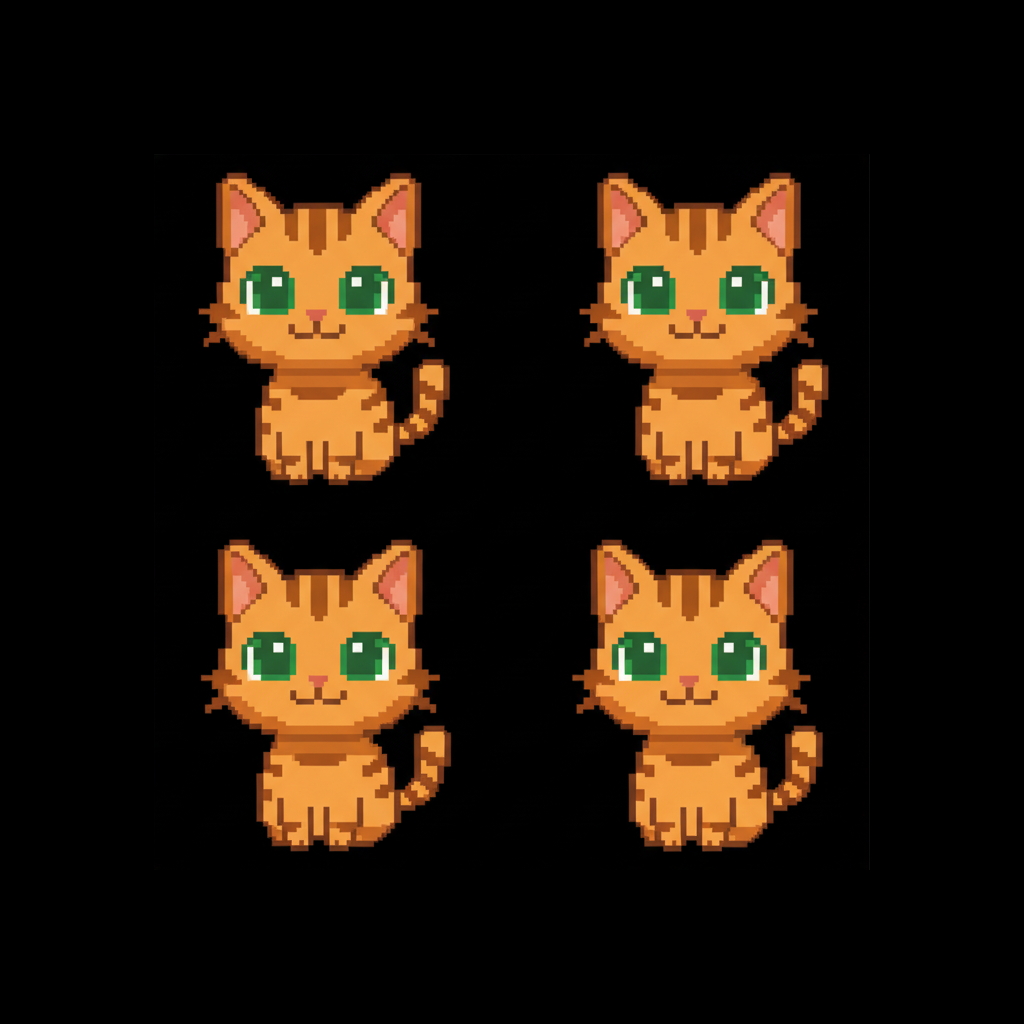
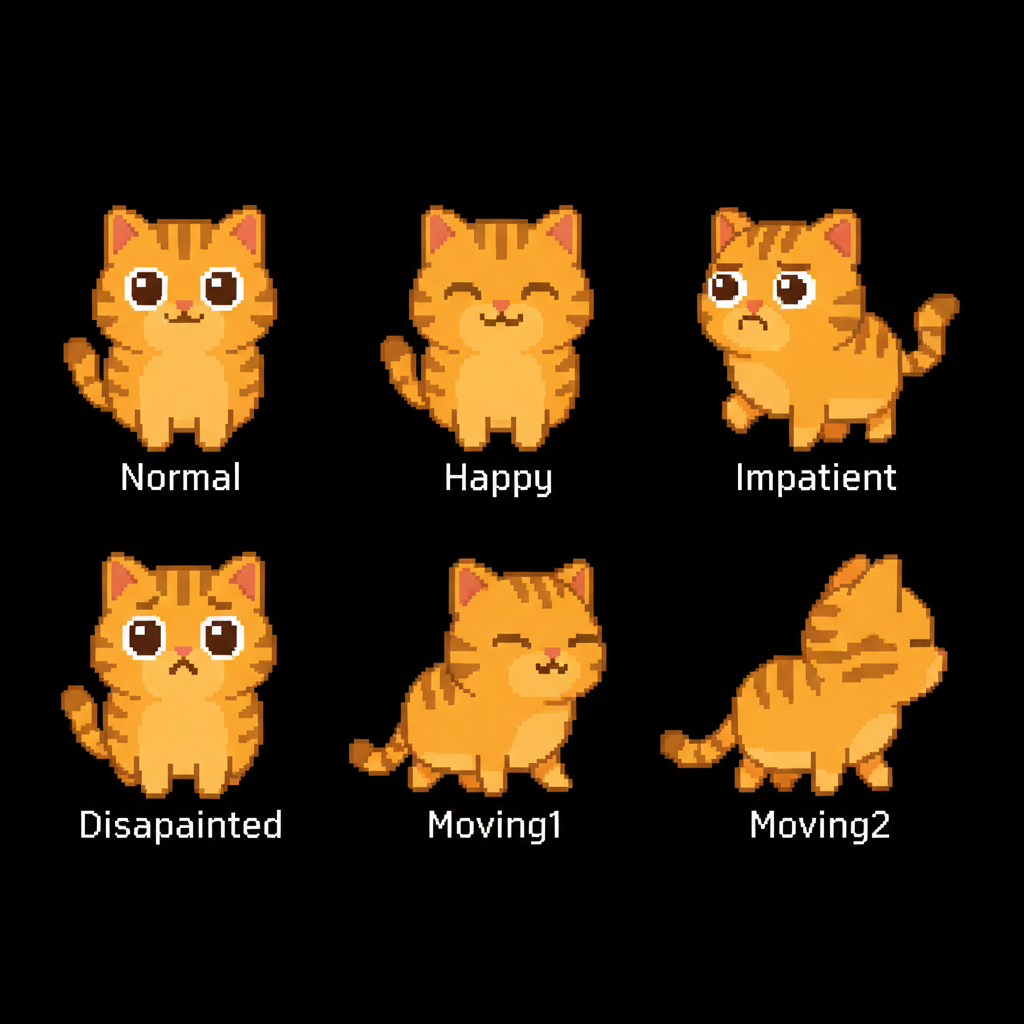
cat move animations

diff --git a/generate_cat_image.py b/generate_cat_image.py
@@ -16,37 +16,49 @@ ENTITY_VARIANTS = {
         "normal: orange tabby with dark stripes, friendly expression",
         "happy: eyes closed in contentment",
         "impatient: ears back, worried expression",
-        "disappointed: sad droopy eyes",
+        "disappointed: sad droopy eyes, crying expression",
+        "moving1: walking frame 1, front paw lifted slightly, tail swish",
+        "moving2: walking frame 2, alternate paw lifted, tail swish",
     ],
     "luna": [
         "normal: black fur with white paws and chest marking, big yellow eyes",
         "happy: eyes closed in contentment",
         "impatient: ears back, worried yellow eyes",
-        "disappointed: sad droopy yellow eyes",
+        "disappointed: sad droopy yellow eyes, crying expression",
+        "moving1: walking frame 1, front paw lifted slightly, tail swish",
+        "moving2: walking frame 2, alternate paw lifted, tail swish",
     ],
     "tofu": [
         "normal: pure white fluffy fur, big blue eyes, sweet shy expression",
         "happy: eyes closed, content smile",
         "impatient: ears back, worried blue eyes",
-        "disappointed: sad droopy blue eyes",
+        "disappointed: sad droopy blue eyes, crying expression",
+        "moving1: walking frame 1, front paw lifted slightly, tail swish",
+        "moving2: walking frame 2, alternate paw lifted, tail swish",
     ],
     "ginger": [
         "normal: calico pattern orange black white, friendly eyes",
         "happy: eyes closed in joy",
         "impatient: ears back, anxious expression",
-        "disappointed: sad eyes",
+        "disappointed: sad eyes, crying expression",
+        "moving1: walking frame 1, front left paw lifted slightly, tail swish",
+        "moving2: walking frame 2, front right paw lifted, tail swish",
     ],
     "petya": [
         "normal: large fluffy grey Siberian, wise calm expression",
         "happy: eyes closed peacefully",
         "impatient: ears slightly back, concerned expression",
-        "disappointed: sad droopy eyes",
+        "disappointed: sad droopy eyes, crying expression",
+        "moving1: walking frame 1, front paw lifted slightly, tail swish",
+        "moving2: walking frame 2, alternate paw lifted, tail swish",
     ],
     "lapilaps": [
         "normal: cream/tan Siamese with dark brown points, blue almond eyes, pink collar",
         "happy: eyes closed, content expression",
         "impatient: worried blue eyes, ears back",
-        "disappointed: sad blue eyes",
+        "disappointed: sad blue eyes, crying expression",
+        "moving1: walking frame 1, front paw lifted slightly, tail swish",
+        "moving2: walking frame 2, alternate paw lifted, tail swish",
     ],
     "gaiwan": [
         "empty: white porcelain with blue floral patterns, bowl lid saucer",
@@ -245,6 +257,13 @@ if __name__ == "__main__":
             sys.exit(0)
         if arg == "all":
             for name in sorted(ENTITY_VARIANTS.keys()):
+                print(f"Generating  - {name}")
+                grid_path = generate_entity_grid(name)
+                if grid_path:
+                    print(f"\n✅ Grid saved to {grid_path}")
+            sys.exit(0)
+        if arg == "cats":
+            for name in ["mimi", "luna", "tofu", "ginger", "petya", "lapilaps"]:
                 print(f"Generating  - {name}")
                 grid_path = generate_entity_grid(name)
                 if grid_path:

diff --git a/game/tea_objects/cat_visitor.py b/game/tea_objects/cat_visitor.py
@@ -21,6 +21,7 @@ class CatVisitor:
         self.served = False
         self.happiness = 0
         self.animation_timer = 0
+        self.move_frame_duration = 200
         self.sprite_loader = sprite_loader
         self.particle_system = particle_system
         self.sound_manager = get_sound_manager()
@@ -112,16 +113,21 @@ class CatVisitor:
         
         # Map game state to sprite variant
         if self.state == "happy":
-            sprite_variant = "happy"
+            base_variant = "happy"
         elif self.state == "disappointed":
-            sprite_variant = "disappointed"
+            base_variant = "disappointed"
         elif self.patience < 40:
-            sprite_variant = "impatient"
+            base_variant = "impatient"
         else:
-            sprite_variant = "normal"
-        
+            base_variant = "normal"
+
         # Try to get cat sprite
         cat_id = self.cat_data['id']
+        sprite_variant = base_variant
+        if self.state in ("arriving", "leaving"):
+            frame = 1 + int(self.animation_timer / self.move_frame_duration) % 2
+            sprite_variant = f"moving{frame}"
+
         sprite = self.sprite_loader.get_sprite(cat_id, sprite_variant) if self.sprite_loader else None
         
         if sprite:
